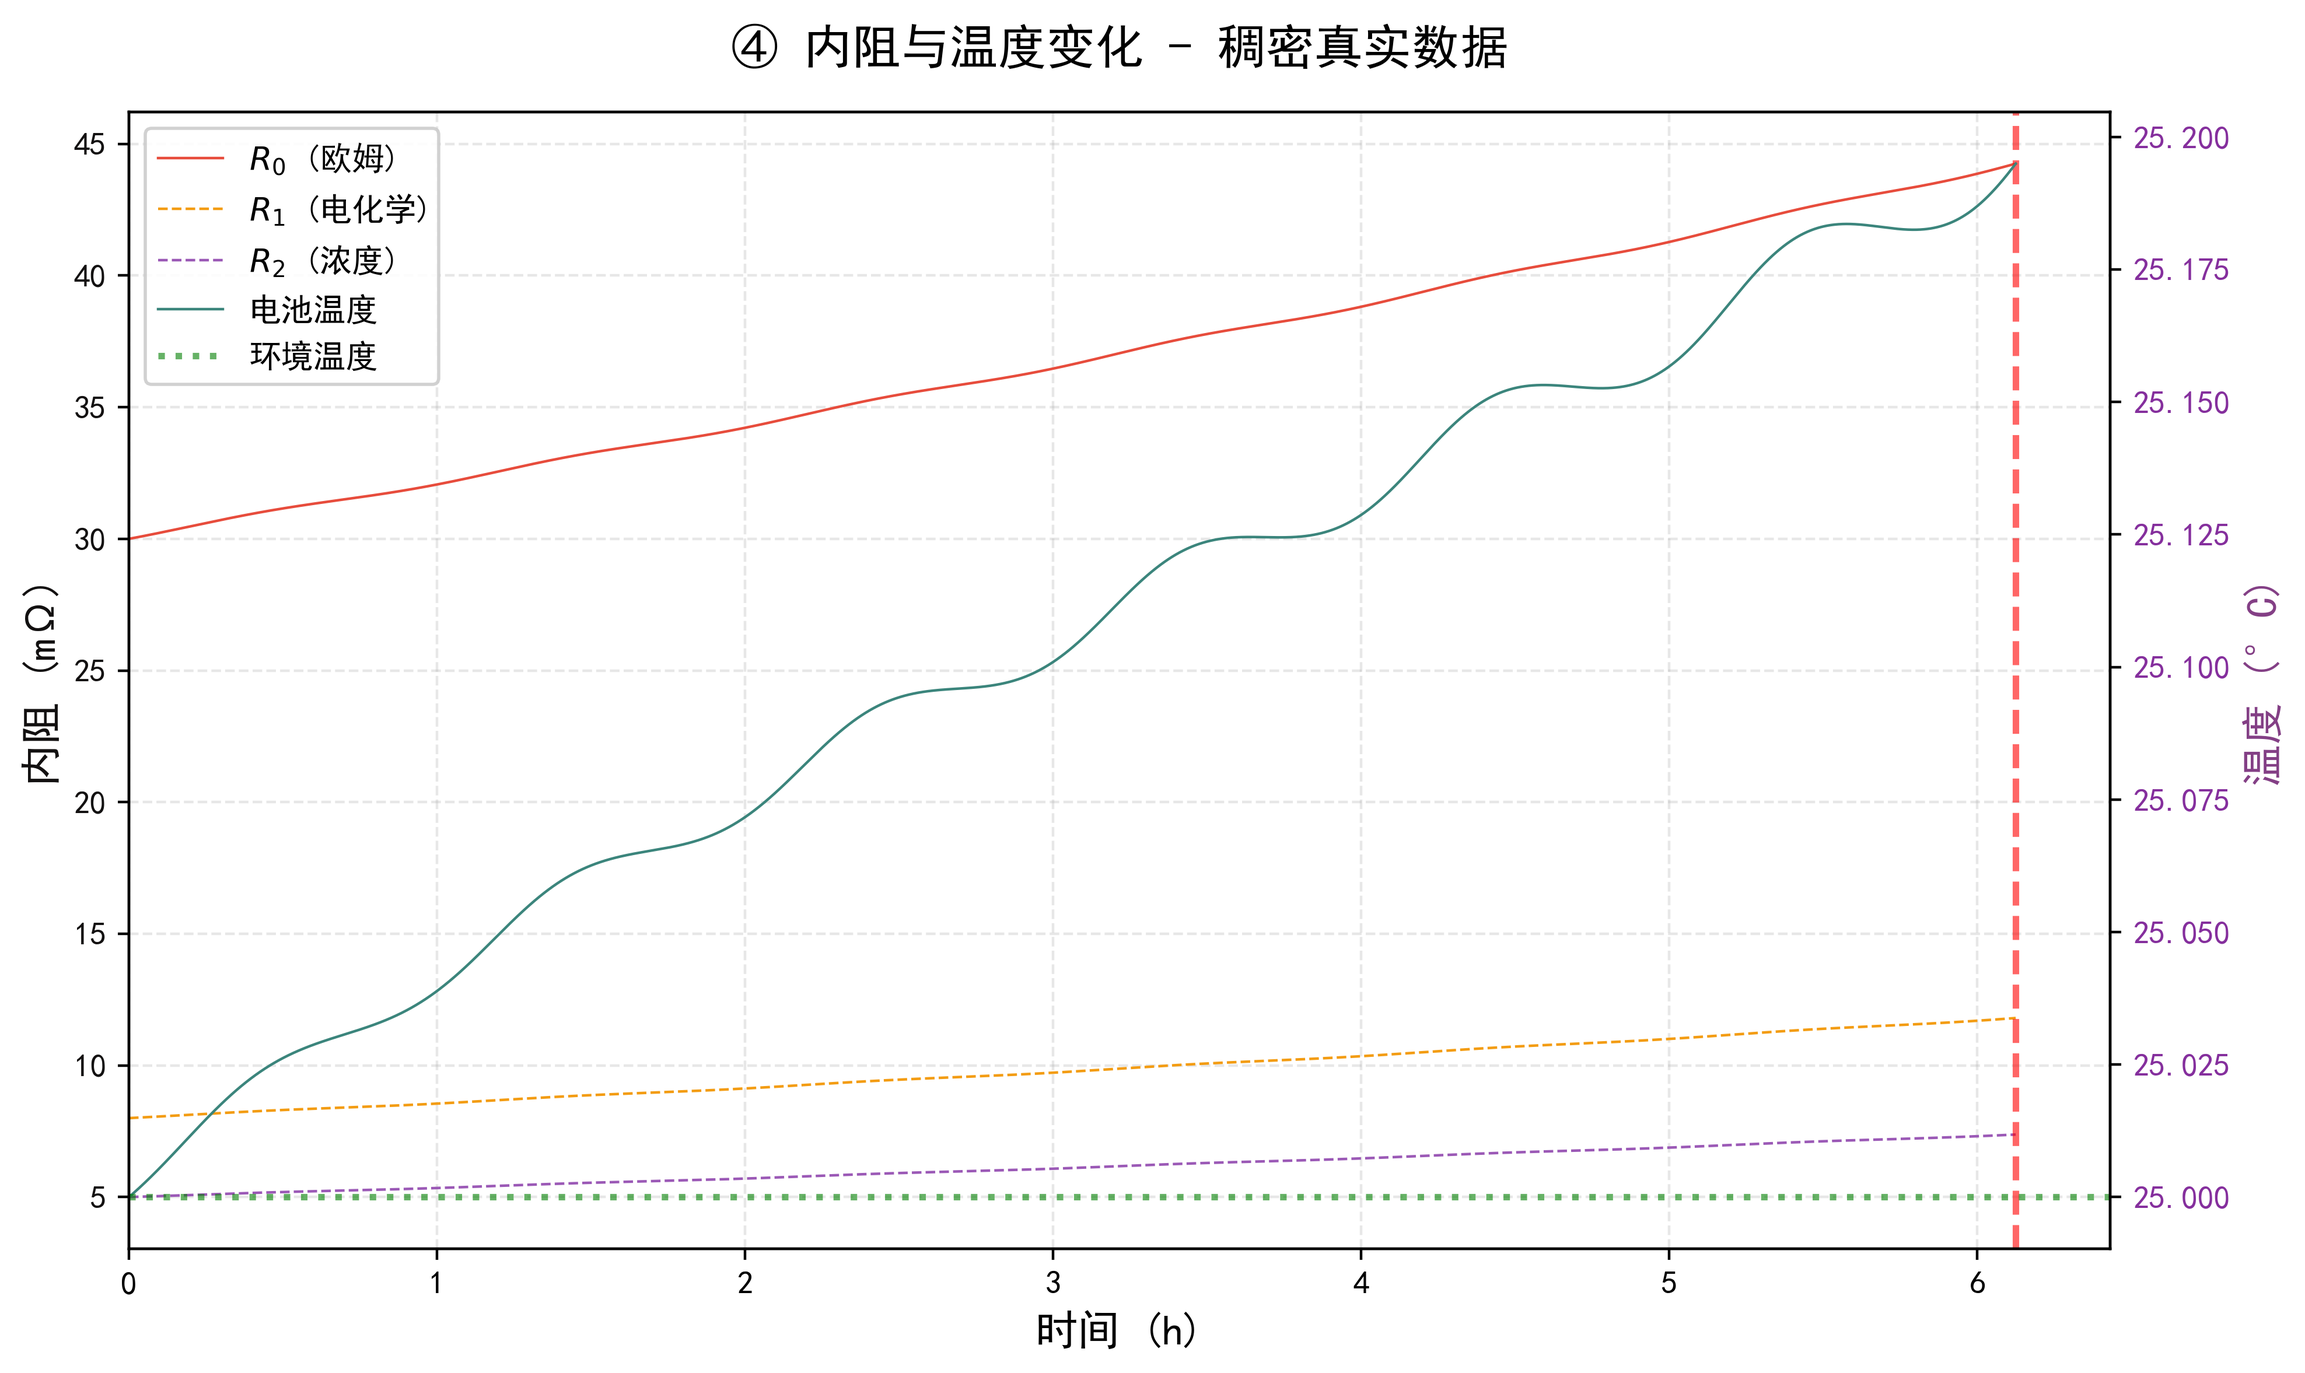
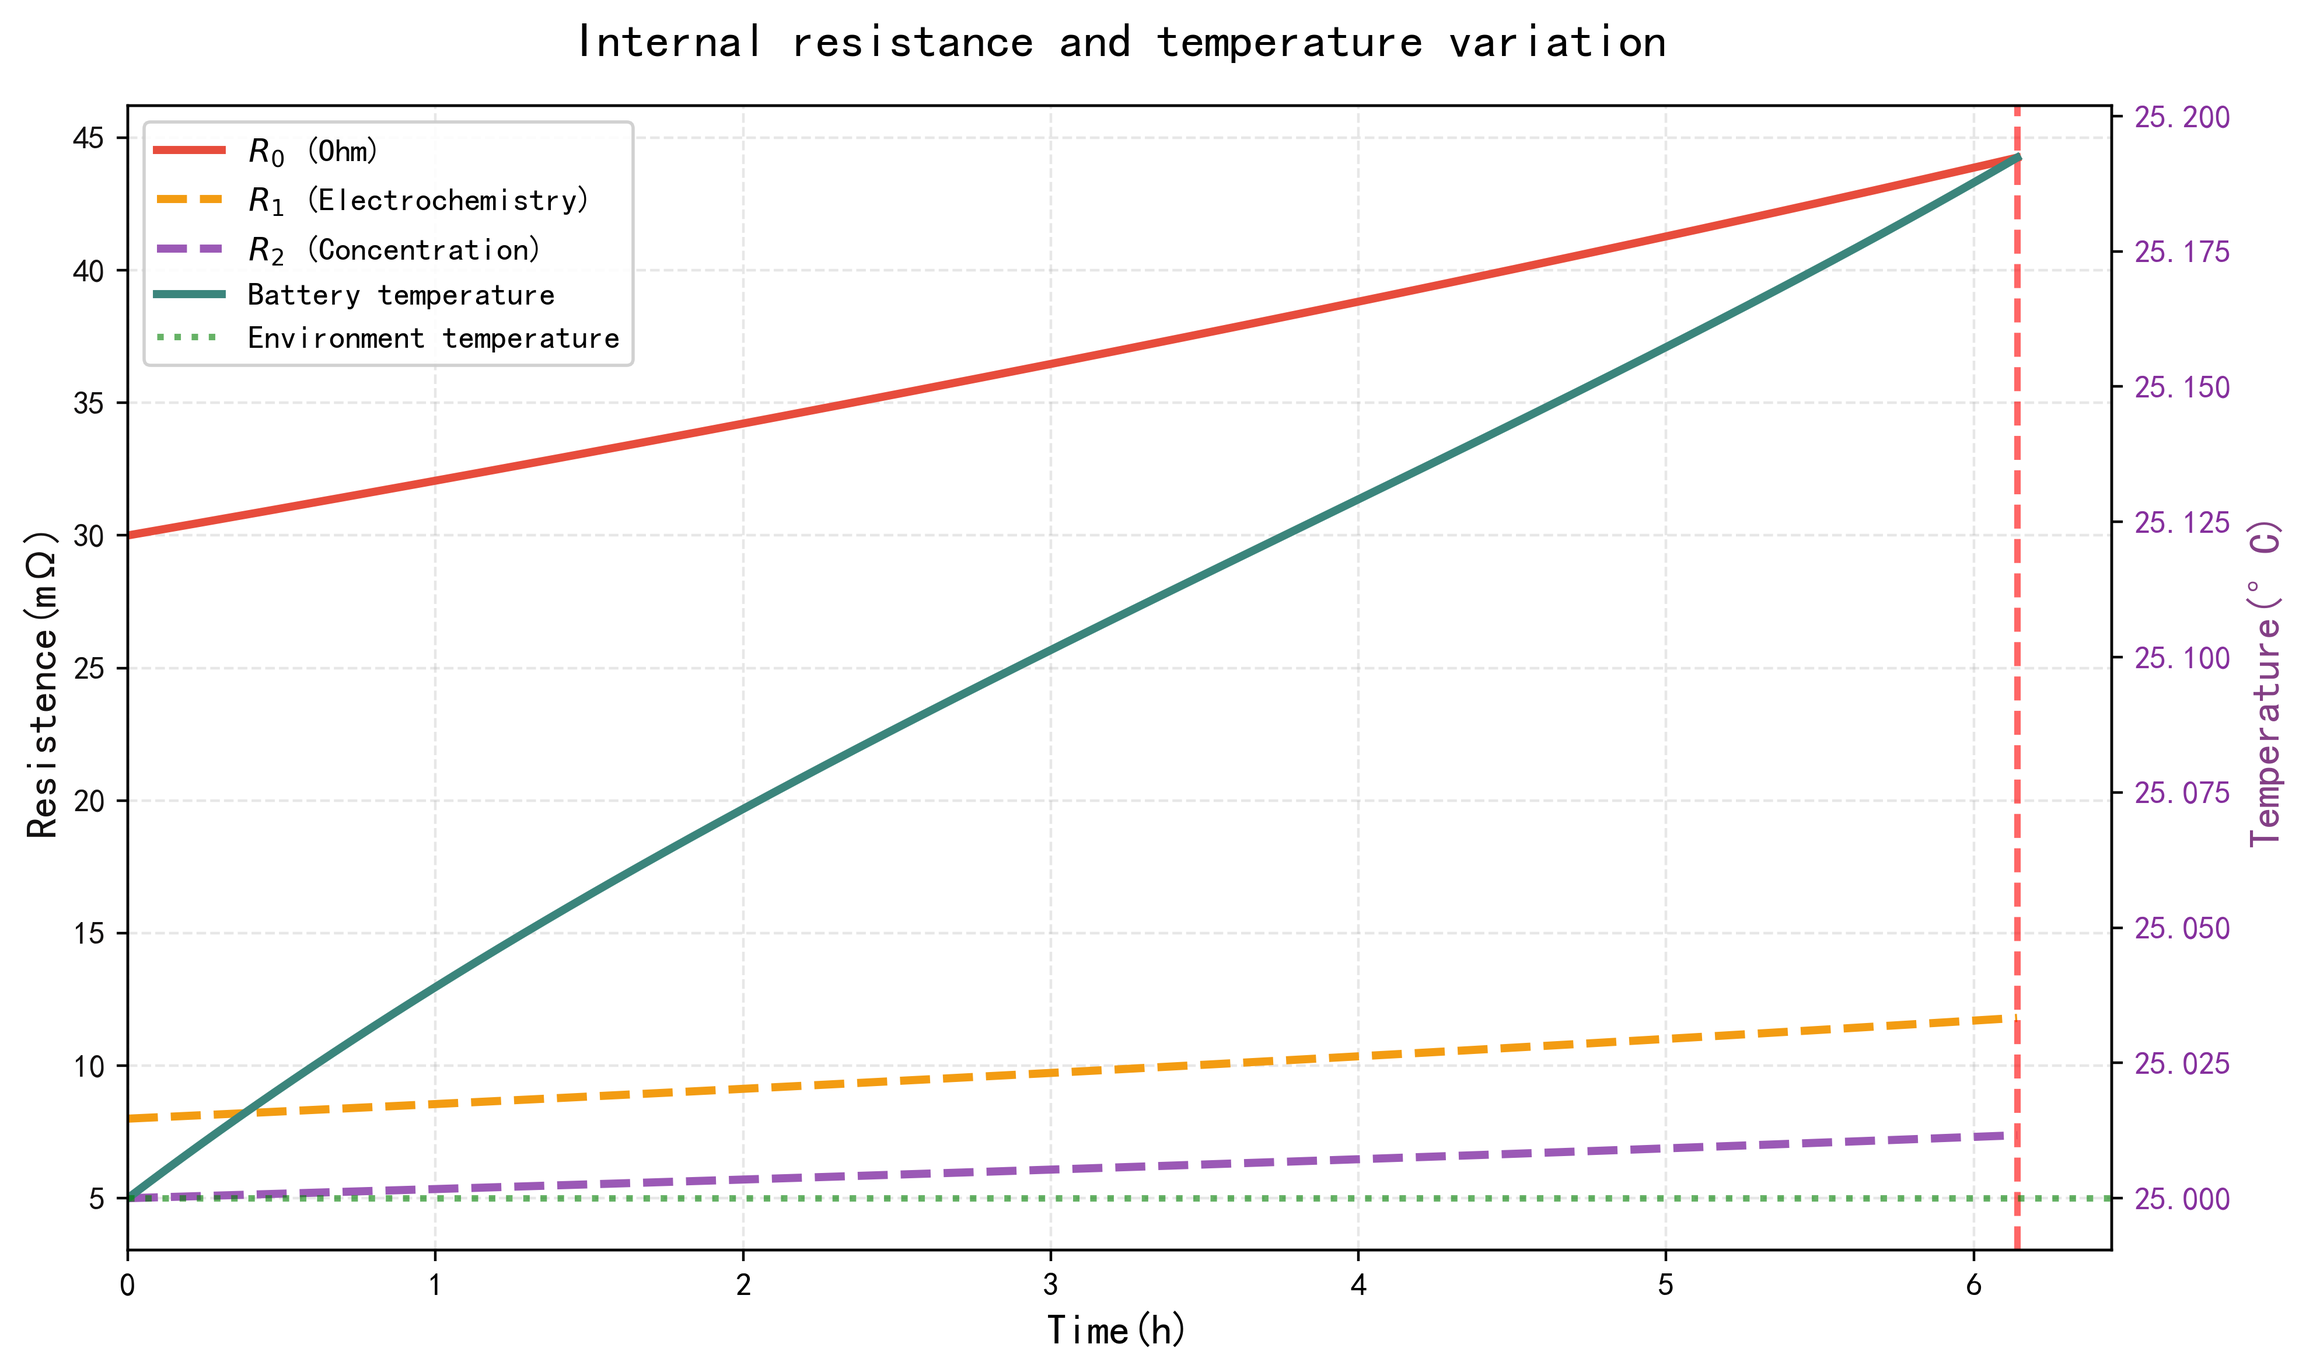
modify

diff --git a/问题2/power_analysis.py b/问题2/power_analysis.py
@@ -1,172 +1,199 @@
+"""
+Power Consumption Analysis for 5 Scenarios
+Nested Donut Chart (Ring Chart) Visualization
+Each ring represents one scenario with different radii
+"""
 import numpy as np
 import matplotlib.pyplot as plt
-from model import SmartphoneBatteryModel
-from scenery import *
 import sys
 from pathlib import Path
-project_root = Path(__file__).resolve().parents[1]  # 父目录的上级是 MCMA
+
+project_root = Path(__file__).resolve().parents[1]
 sys.path.insert(0, str(project_root))
-plt.rcParams['font.sans-serif'] = ['SimHei', 'Microsoft YaHei', 'KaiTi', 'SimSun']
+from model import SmartphoneBatteryModel
+from scenery import (scenario_video_streaming, scenario_gaming, 
+                     scenario_navigation, scenario_free, scenario_cold_weather)
+
+# English fonts
+plt.rcParams['font.family'] = 'DejaVu Sans'
 plt.rcParams['axes.unicode_minus'] = False
 
-class PowerComponentAnalyzer:
-    """功耗组件分析器"""
+
+def calculate_power_breakdown(model, scenario_func, duration_h=1.0):
+    """
+    Calculate power consumption breakdown for each component
+    Returns: dict with power in Wh for each component
+    """
+    scenario = scenario_func(0)
     
-    def __init__(self):
-        self.battery = SmartphoneBatteryModel()
-        
-    def analyze_power_components(self, scenario_func, scenario_name):
-        """
-        分析单个场景下各组件的功耗
-        
-        返回:
-            dict: {'屏幕': power, 'CPU': power, '网络': power, 'GPS': power, '基础': power}
-        """
-        # 获取场景参数（t=0时刻）
-        scenario = scenario_func(0)
-        
-        components = {
-            '屏幕': 0.0,
-            'CPU': 0.0,
-            '网络': 0.0,
-            'GPS': 0.0,
-            '基础': self.battery.P_base
-        }
-        
-        # 屏幕功耗
-        if scenario.get('screen_on', False):
-            brightness = float(np.clip(scenario.get('brightness', 0.5), 0.0, 1.0))
-            components['屏幕'] = self.battery.P_a * brightness * self.battery.P_refresh * self.battery.P_screen_square
-        
-        # CPU功耗
-        if 'cpu_usage' in scenario:
-            cpu_usage = float(np.clip(scenario.get('cpu_usage', 0.0), 0.0, 1.0))
-            cpu_power = self.battery.P_cpu_idle + cpu_usage * self.battery.P_cpu_B * (self.battery.P_cpu_f ** 3)
-            components['CPU'] = cpu_power
-        
-        # 网络功耗
-        if 'data_rate' in scenario:
-            data_rate = max(0.0, float(scenario.get('data_rate', 0.0)))
-            net_power = self.battery.P_net_idle + self.battery.beta * data_rate
-            components['网络'] = net_power
-        
-        # GPS功耗
-        if scenario.get('gps_on', False):
-            components['GPS'] = self.battery.P_gps
-        
-        # 计算总功耗
-        total_power = sum(components.values())
-        
-        return components, total_power
+    power = {
+        'Screen': 0.0,
+        'CPU': 0.0,
+        'Network': 0.0,
+        'GPS': 0.0,
+        'Base': model.P_base * duration_h
+    }
     
-    def analyze_all_scenarios(self):
-        """分析所有场景的功耗组件"""
-        scenarios = {
-            '视频流': scenario_video_streaming,
-            '游戏': scenario_gaming,
-            '导航': scenario_navigation,
-            '低温视频流': scenario_cold_weather,
-            '空闲': scenario_free
-        }
-        
-        results = {}
-        
-        print("="*70)
-        print("各场景功耗组件分析 (满电状态)")
-        print("="*70)
-        
-        for name, func in scenarios.items():
-            components, total = self.analyze_power_components(func, name)
-            results[name] = components
-            
-            print(f"\n【{name}】")
-            print(f"  总功耗: {total:.3f} W")
-            for comp, power in components.items():
-                percentage = (power / total * 100) if total > 0 else 0
-                print(f"  - {comp}: {power:.3f} W ({percentage:.1f}%)")
-        
-        print("\n" + "="*70)
-        
-        return results
+    # Screen power
+    if scenario.get('screen_on', False):
+        brightness = scenario.get('brightness', 0.5)
+        P_screen = model.P_a * brightness * model.P_refresh * model.P_screen_square
+        power['Screen'] = P_screen * duration_h
+    
+    # CPU power
+    cpu_usage = scenario.get('cpu_usage', 0.0)
+    P_cpu = model.P_cpu_idle + cpu_usage * model.P_cpu_B * (model.P_cpu_f ** 2)
+    power['CPU'] = P_cpu * duration_h
+    
+    # Network power
+    data_rate = scenario.get('data_rate', 0.0)
+    P_net = model.P_net_idle + model.beta * data_rate
+    power['Network'] = P_net * duration_h
+    
+    # GPS power
+    if scenario.get('gps_on', False):
+        power['GPS'] = model.P_gps * duration_h
+    
+    return power
 
 
-def plot_radar_chart(results):
-    """
-    绘制科技感雷达图
+def analyze_all_scenarios():
+    """Analyze power breakdown for all 5 scenarios"""
+    model = SmartphoneBatteryModel()
     
-    参数:
-        results: dict, {场景名: {组件: 功耗}}
-    """
-    print("\n生成科技感雷达图...")
+    scenarios = {
+        'Video Streaming': scenario_video_streaming,
+        'Gaming': scenario_gaming,
+        'Navigation': scenario_navigation,
+        'Idle': scenario_free,
+        'Cold Weather': scenario_cold_weather
+    }
     
-    # 组件列表（雷达图的各个轴）
-    components = ['屏幕', 'CPU', '网络', 'GPS', '基础']
-    num_components = len(components)
+    duration_h = 12.0
+    results = {}
     
-    # 场景列表
-    scenarios = list(results.keys())
-    
-    # 计算角度
-    angles = np.linspace(0, 2 * np.pi, num_components, endpoint=False).tolist()
-    angles += angles[:1]  # 闭合图形
-    
-    # 创建图形（使用深色背景增加科技感）
-    fig = plt.figure(figsize=(14, 10), facecolor='#0a0e27')
-    ax = fig.add_subplot(111, projection='polar', facecolor='#0a0e27')
-    
-    # 定义渐变色系（科技感配色）
-    colors = ['#00D9FF', '#FF00E6', '#00FF94', '#FFD700', '#FF6B6B']
-    
-    # 为每个场景绘制雷达图
-    for idx, scenario in enumerate(scenarios):
-        values = [results[scenario][comp] for comp in components]
-        values += values[:1]  # 闭合图形
+    for name, func in scenarios.items():
+        power = calculate_power_breakdown(model, func, duration_h)
+        results[name] = power
         
-        # 绘制填充区域
-        ax.plot(angles, values, 'o-', linewidth=2.5, 
-                label=scenario, color=colors[idx], markersize=8)
-        ax.fill(angles, values, alpha=0.15, color=colors[idx])
+        total = sum(power.values())
+        print(f"\n{name}:")
+        print(f"  Screen:  {power['Screen']:.4f} Wh ({power['Screen']/total*100:.1f}%)" if total > 0 else "  Screen:  0 Wh")
+        print(f"  CPU:     {power['CPU']:.4f} Wh ({power['CPU']/total*100:.1f}%)" if total > 0 else "  CPU:     0 Wh")
+        print(f"  Network: {power['Network']:.4f} Wh ({power['Network']/total*100:.1f}%)" if total > 0 else "  Network: 0 Wh")
+        print(f"  GPS:     {power['GPS']:.4f} Wh ({power['GPS']/total*100:.1f}%)" if total > 0 else "  GPS:     0 Wh")
+        print(f"  Base:    {power['Base']:.4f} Wh ({power['Base']/total*100:.1f}%)" if total > 0 else "  Base:    0 Wh")
+        print(f"  TOTAL:   {total:.4f} Wh")
     
-    # 设置雷达图的标签
-    ax.set_xticks(angles[:-1])
-    ax.set_xticklabels(components, fontsize=13, fontweight='bold', color='white')
+    return results
+
+
+def plot_nested_donut(results):
+    """
+    Create nested donut chart with 5 rings (one per scenario)
+    Each ring at different radius
+    """
+    fig, ax = plt.subplots(figsize=(14, 10))
     
-    # 设置网格样式（科技感）
-    ax.grid(True, color='#1a2332', linewidth=1.5, linestyle='-', alpha=0.7)
-    ax.spines['polar'].set_color('#00D9FF')
-    ax.spines['polar'].set_linewidth(2)
+    # Component colors
+    colors = {
+        'Screen': '#E74C3C',
+        'CPU': '#3498DB',
+        'Network': '#2ECC71',
+        'GPS': '#F39C12',
+        'Base': '#9B59B6'
+    }
     
-    # 设置刻度颜色
-    ax.tick_params(colors='white', labelsize=11)
+    components = ['Screen', 'CPU', 'Network', 'GPS', 'Base']
     
-    # 设置径向刻度
-    max_power = max([max([results[s][c] for c in components]) for s in scenarios])
-    ax.set_ylim(0, max_power * 1.2)
-    ax.set_yticks(np.linspace(0, max_power * 1.2, 5))
-    ax.set_yticklabels([f'{v:.2f}W' for v in np.linspace(0, max_power * 1.2, 5)], 
-                       fontsize=10, color='#00D9FF', fontweight='bold')
+    # Scenario order (inside to outside) - sorted by total power
+    scenario_totals = {name: sum(power.values()) for name, power in results.items()}
+    scenario_order = sorted(scenario_totals.keys(), key=lambda x: scenario_totals[x])
     
-    # 添加标题（科技感字体）
-    ax.set_title('各场景功耗组件雷达分析图\nPower Component Radar Analysis', 
-                 fontsize=18, fontweight='bold', color='white', pad=30,
-                 bbox=dict(boxstyle='round,pad=0.8', facecolor='#1a2332', 
-                          edgecolor='#00D9FF', linewidth=2))
+    # Ring parameters
+    width = 0.12
+    start_radius = 0.25
+    gap = 0.14
     
-    # 添加图例（优化位置和样式）
-    legend = ax.legend(loc='upper right', bbox_to_anchor=(1.3, 1.1), 
-                      fontsize=12, frameon=True, shadow=False, 
-                      facecolor='#1a2332', edgecolor='#00D9FF', 
-                      framealpha=0.9, labelcolor='white')
-    legend.get_frame().set_linewidth(2)
+    # Create each ring
+    for i, scenario_name in enumerate(scenario_order):
+        power_data = results[scenario_name]
+        inner_radius = start_radius + i * gap
+        
+        values = [power_data[comp] for comp in components]
+        ring_colors = [colors[comp] for comp in components]
+        
+        total = sum(values)
+        if total == 0:
+            # For zero total, show equal segments in gray
+            values = [1, 1, 1, 1, 1]
+            ring_colors = ['#CCCCCC'] * 5
+        
+        # Create pie as donut ring - BLACK edge
+        wedges, _ = ax.pie(
+            values,
+            radius=inner_radius + width,
+            colors=ring_colors,
+            wedgeprops=dict(width=width, edgecolor='black', linewidth=1.2),
+            startangle=90,
+            counterclock=False
+        )
+        
+        # Add scenario label
+        label_radius = inner_radius + width / 2
+        label_angle = 135
+        x = label_radius * np.cos(np.radians(label_angle))
+        y = label_radius * np.sin(np.radians(label_angle))
+        
+        ax.annotate(
+            f'{scenario_name}\n{total:.2f} Wh',
+            xy=(x, y),
+            fontsize=9,
+            fontweight='bold',
+            ha='center',
+            va='center',
+            color='white',
+            bbox=dict(boxstyle='round,pad=0.3', facecolor='#2C3E50', alpha=0.9)
+        )
     
-    # 添加水印/标注
-    fig.text(0.5, 0.02, 'Smartphone Battery Model - Power Analysis System', 
-            ha='center', fontsize=10, color='#00D9FF', alpha=0.7, 
-            style='italic', fontweight='bold')
+    # Center text
+    ax.text(0, 0, 'Power\nConsumption\n', 
+            ha='center', va='center', fontsize=13, fontweight='bold',
+            bbox=dict(boxstyle='circle,pad=0.5', facecolor='#ECF0F1', edgecolor='#2C3E50', linewidth=2))
+    
+    # Legend - closer to chart
+    legend_elements = [plt.Rectangle((0,0), 1, 1, facecolor=colors[comp], 
+                                       edgecolor='black', linewidth=1.2, label=comp) 
+                       for comp in components]
+    ax.legend(handles=legend_elements, loc='upper right', 
+              fontsize=12, title='Components', title_fontsize=13,
+              bbox_to_anchor=(1.05, 0.95), frameon=True, 
+              facecolor='white', edgecolor='#2C3E50')
+    
+    # Title
+    #ax.set_title('Power Consumption',
+    #            fontsize=16, fontweight='bold', pad=25)
+    
+    ax.set_aspect('equal')
+    ax.axis('off')
     
     plt.tight_layout()
-    plt.savefig('power_radar_chart.png', dpi=300, bbox_inches='tight', 
-                facecolor='#0a0e27', edgecolor='none')
-    print("科技感雷达图已保存为 power_radar_chart.png")
-    plt.show()
+    plt.savefig('power_radar_chart.png', dpi=400, bbox_inches='tight', 
+                facecolor='white', edgecolor='none')
+    print("\n✓ Figure saved: power_radar_chart.png")
+    plt.close()
 
+
+if __name__ == '__main__':
+    print("="*60)
+    print("POWER CONSUMPTION ANALYSIS - 5 SCENARIOS")
+    print("Components: Screen, CPU, Network, GPS, Base")
+    print("Duration: 12 hour")
+    print("="*60)
+    
+    results = analyze_all_scenarios()
+    plot_nested_donut(results)
+    
+    print("\n" + "="*60)
+    print("Analysis complete!")
+    print("="*60)

diff --git a/问题1/plot.py b/问题1/plot.py
@@ -122,22 +122,22 @@ def plot_individual_charts(model, data):
     fig3, ax3 = plt.subplots(figsize=(10, 6))
     
     # 左轴：内阻
-    ax3.plot(t_h, data['R0']*1000, color='#E74C3C', linewidth=2.5, label='$R_0$ (欧姆)')
-    ax3.plot(t_h, data['R1']*1000, color='#F39C12', linewidth=2.5, label='$R_1$ (电化学)', linestyle='--')
-    ax3.plot(t_h, data['R2']*1000, color='#9B59B6', linewidth=2.5, label='$R_2$ (浓度)', linestyle='--')
+    ax3.plot(t_h, data['R0']*1000, color='#E74C3C', linewidth=2.5, label='$R_0$ (Ohm)')
+    ax3.plot(t_h, data['R1']*1000, color='#F39C12', linewidth=2.5, label='$R_1$ (Electrochemistry)', linestyle='--')
+    ax3.plot(t_h, data['R2']*1000, color='#9B59B6', linewidth=2.5, label='$R_2$ (Concentration)', linestyle='--')
     ax3.axvline(t_empty, color='red', linestyle='--', alpha=0.6, linewidth=2)
-    ax3.set_xlabel('时间 (h)', fontweight='bold', fontsize=13)
-    ax3.set_ylabel('内阻 (mΩ)', fontweight='bold', fontsize=13, color="#110F0F")
+    ax3.set_xlabel('Time(h)', fontweight='bold', fontsize=13)
+    ax3.set_ylabel('Resistence(mΩ)', fontweight='bold', fontsize=13, color="#110F0F")
     ax3.tick_params(axis='y', labelcolor="#131111")
-    ax3.set_title('④ 内阻与温度变化', fontsize=15, fontweight='bold', pad=15)
+    ax3.set_title('Internal resistance and temperature variation', fontsize=15, fontweight='bold', pad=15)
     ax3.grid(True, alpha=0.3, linestyle='--')
     ax3.set_xlim([0, t_empty*1.05])
     
     # 右轴：温度
     ax3_temp = ax3.twinx()
-    ax3_temp.plot(t_h, data['T_celsius'], color="#3B857C", linewidth=2.5, label='电池温度')
-    ax3_temp.axhline(25, color='green', linestyle=':', linewidth=2, alpha=0.6, label='环境温度')
-    ax3_temp.set_ylabel('温度 (°C)', fontweight='bold', fontsize=13, color="#833E85")
+    ax3_temp.plot(t_h, data['T_celsius'], color="#3B857C", linewidth=2.5, label='Battery temperature')
+    ax3_temp.axhline(25, color='green', linestyle=':', linewidth=2, alpha=0.6, label='Environment temperature')
+    ax3_temp.set_ylabel('Temperature(°C)', fontweight='bold', fontsize=13, color="#833E85")
     ax3_temp.tick_params(axis='y', labelcolor="#852F9D")
     
     # 合并图例
